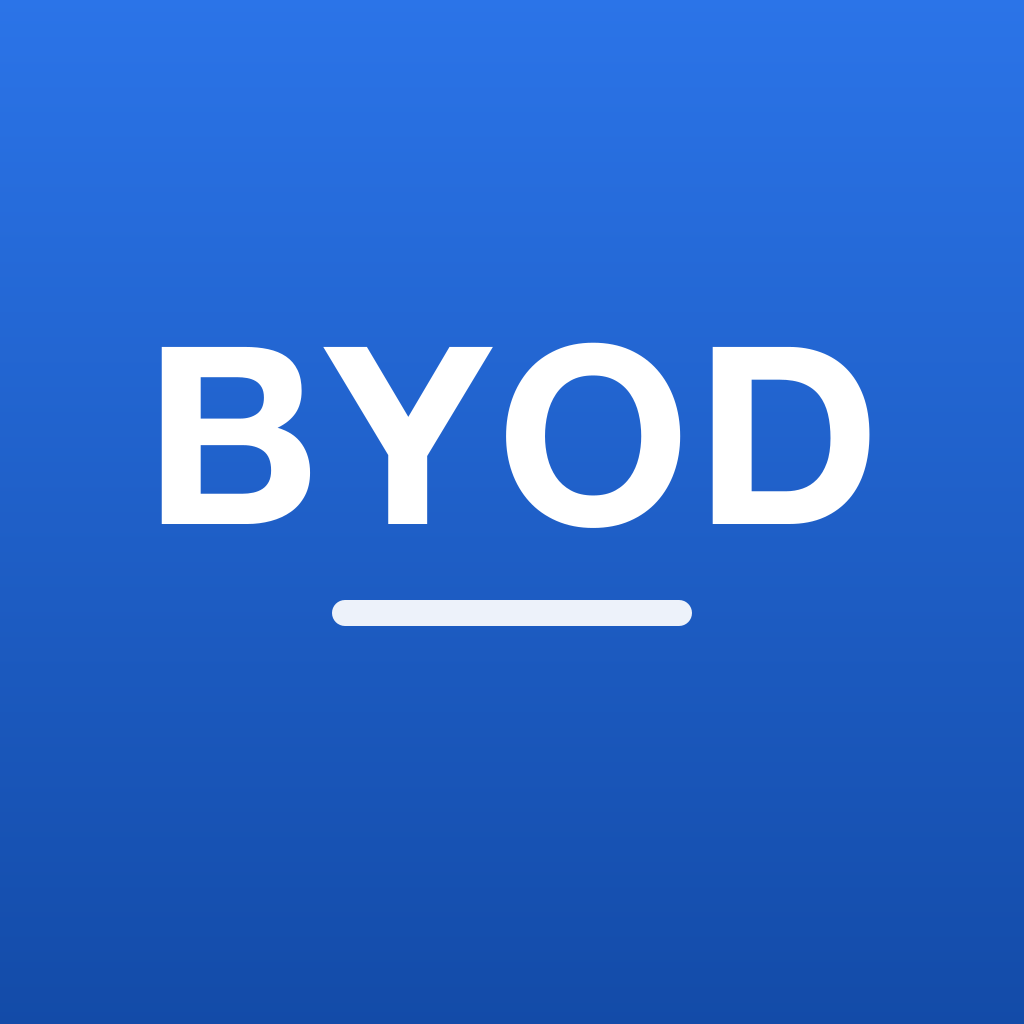
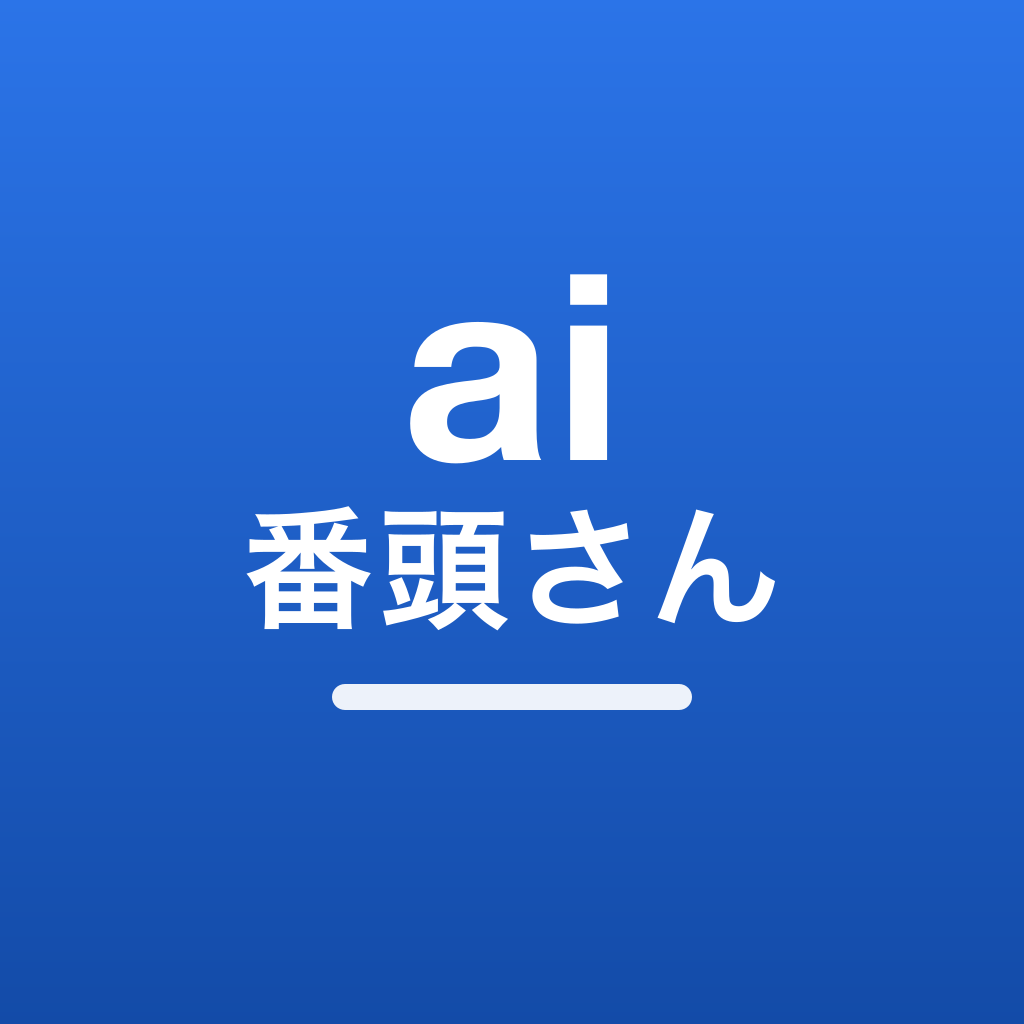
アプリ名を ai番頭さん に統一

Changed region(s): [[0.1562, 0.25, 0.875, 0.625], [0.3125, 0.6562, 0.6875, 0.7188]]

diff --git a/docs/jp/sumpo/BYOD/byod.html b/docs/jp/sumpo/BYOD/byod.html
@@ -3,16 +3,16 @@
 <head>
   <meta charset="UTF-8">
   <meta name="viewport" content="width=device-width, initial-scale=1.0">
-  <title>BYOD　取扱説明</title>
-  <meta name="description" content="設備工事・保守会社向けBYODサンプルの取扱説明です。今日、営業、現場、集金、れんらく、やること、出退勤、管理機能の使い方を案内します。">
+  <title>ai番頭さん　取扱説明</title>
+  <meta name="description" content="設備工事・保守会社向けai番頭さんサンプルの取扱説明です。今日、営業、現場、集金、れんらく、やること、出退勤、管理機能の使い方を案内します。">
   <link rel="canonical" href="https://azukid.com/jp/sumpo/BYOD/byod.html">
   <link rel="alternate" href="https://azukid.com/jp/sumpo/BYOD/byod.html" hreflang="ja">
   <link rel="alternate" href="https://azukid.com/en/sumpo/BYOD/byod.html" hreflang="en">
   <meta name="theme-color" content="#f5f5f7">
   <meta property="og:type" content="article">
   <meta property="og:locale" content="ja_JP">
-  <meta property="og:title" content="BYOD 取扱説明">
-  <meta property="og:description" content="必要十分な業務情報を担当者へ確実に届けるBYODサンプルの操作ガイドです。">
+  <meta property="og:title" content="ai番頭さん 取扱説明">
+  <meta property="og:description" content="必要十分な業務情報を担当者へ確実に届けるai番頭さんサンプルの操作ガイドです。">
   <meta property="og:url" content="https://azukid.com/jp/sumpo/BYOD/byod.html">
   <link rel="stylesheet" href="../../../style.css?v=20260804">
   <script>(function(){var t=localStorage.getItem('theme');if(t)document.documentElement.setAttribute('data-theme',t);})();</script>
@@ -34,7 +34,7 @@
   <div class="site-header-inner">
     <a class="header-back" href="../../index.html">ホーム</a>
     <span class="header-sep">/</span>
-    <span class="site-logo">BYOD</span>
+    <span class="site-logo">ai番頭さん</span>
     <button class="theme-toggle" onclick="toggleTheme()" aria-label="ダークモードを切り替える"></button>
   </div>
 </header>
@@ -43,25 +43,27 @@
 
   <div class="page-header">
     <div class="page-header-text">
-      <h1>BYOD　取扱説明</h1>
-      <p class="page-tagline"><strong>中小企業のガバナンスをBYODで支援する</strong><br>必要な情報だけを、必要な人へ確実に届ける</p>
+      <h1>ai番頭さん　取扱説明</h1>
+      <p class="page-tagline"><strong>中小法人／個人事業の業務DXとガバナンスを、ai番頭さんに</strong><br>必要な情報だけを、必要な人へ確実に届ける</p>
     </div>
   </div>
 
   <!-- サンプルの全体像 -->
   <section class="guide-hero single-column">
     <div class="guide-hero-copy">
-      <p>複数の現場事例から抜粋した基本機能を備えたBYOD基本アプリです。堅牢なセキュリティとガバナンスを支える仕組みをご確認いただけます</p>
+      <p>複数の現場事例から抜粋した基本機能を備えた、BYOD方式の業務アプリ「ai番頭さん」です。堅牢なセキュリティとガバナンスを支える仕組みをご確認いただけます</p>
       <p>本システムの仕様・設計・運用ノウハウをAIに学習させているため、短期間で貴社に最適化したカスタマイズをご提供可能です</p>
       <div class="guide-kpis">
         <div class="guide-kpi"><strong>担当中心</strong><span>自分に必要な情報を優先</span></div>
         <div class="guide-kpi"><strong>現場単位</strong><span>社員と協力会社の範囲を分離</span></div>
         <div class="guide-kpi"><strong>容易に変更</strong><span>変更の前後が記録されていつでも見える</span></div>
+        <!-- BYODの導入メリットを特長として明示 -->
+        <div class="guide-kpi"><strong>BYOD</strong><span>私物スマホに業務データを残さない</span></div>
         <div class="guide-kpi"><strong>セキュリティ</strong><span>パスキー認証、データ分離API集約、多層防御</span></div>
         <div class="guide-kpi"><strong>ガバナンス</strong><span>権限、変更履歴、操作ログ</span></div>
         <div class="guide-kpi"><strong>AI対応</strong><span>意思決定や管理を補助さらに自動化</span></div>
       </div>
-      <p><a class="byod-live-link" href="https://byod.sumpo.uk/">BYODサンプルを開く</a></p>
+      <p><a class="byod-live-link" href="https://byod.sumpo.uk/">ai番頭さんのサンプルを開く</a></p>
     </div>
   </section>
 
@@ -208,7 +210,7 @@
       <a class="link-item" href="slide/byod_summary.pdf"><span class="link-item-label">サマリー — 技術と制度の両輪</span><span class="link-item-arrow">›</span></a>
       <a class="link-item" href="slide/byod_proposal.pdf"><span class="link-item-label">技術編 — Webアプリ優先で解く</span><span class="link-item-arrow">›</span></a>
       <a class="link-item" href="slide/byod_seido_taigu.pdf"><span class="link-item-label">制度・待遇編 — 3つの不安をなくす</span><span class="link-item-arrow">›</span></a>
-      <a class="link-item" href="design.html"><span class="link-item-label">BYOD 設計書</span><span class="link-item-arrow">›</span></a>
+      <a class="link-item" href="design.html"><span class="link-item-label">ai番頭さん 設計書</span><span class="link-item-arrow">›</span></a>
     </div>
   </section>
 

diff --git a/docs/en/sumpo/BYOD/byod.html b/docs/en/sumpo/BYOD/byod.html
@@ -3,16 +3,16 @@
 <head>
   <meta charset="UTF-8">
   <meta name="viewport" content="width=device-width, initial-scale=1.0">
-  <title>BYOD User Guide</title>
-  <meta name="description" content="User guide for the BYOD sample for field service companies, covering Today, sales, job sites, collections, communication, to-dos, attendance, and administration.">
+  <title>ai番頭さん User Guide</title>
+  <meta name="description" content="User guide for the ai番頭さん sample for field service companies, covering Today, sales, job sites, collections, communication, to-dos, attendance, and administration.">
   <link rel="canonical" href="https://azukid.com/en/sumpo/BYOD/byod.html">
   <link rel="alternate" href="https://azukid.com/jp/sumpo/BYOD/byod.html" hreflang="ja">
   <link rel="alternate" href="https://azukid.com/en/sumpo/BYOD/byod.html" hreflang="en">
   <meta name="theme-color" content="#f5f5f7">
   <meta property="og:type" content="article">
   <meta property="og:locale" content="en_US">
-  <meta property="og:title" content="BYOD User Guide">
-  <meta property="og:description" content="A guide to the BYOD sample that reliably delivers only the work information each person needs.">
+  <meta property="og:title" content="ai番頭さん User Guide">
+  <meta property="og:description" content="A guide to the ai番頭さん sample that reliably delivers only the work information each person needs.">
   <meta property="og:url" content="https://azukid.com/en/sumpo/BYOD/byod.html">
   <link rel="stylesheet" href="../../../style.css?v=20260804">
   <script>(function(){var t=localStorage.getItem('theme');if(t)document.documentElement.setAttribute('data-theme',t);})();</script>
@@ -34,7 +34,7 @@
   <div class="site-header-inner">
     <a class="header-back" href="../../index.html">Home</a>
     <span class="header-sep">/</span>
-    <span class="site-logo">BYOD</span>
+    <span class="site-logo">ai番頭さん</span>
     <button class="theme-toggle" onclick="toggleTheme()" aria-label="Toggle dark mode"></button>
   </div>
 </header>
@@ -43,25 +43,27 @@
 
   <div class="page-header">
     <div class="page-header-text">
-      <h1>BYOD User Guide</h1>
-      <p class="page-tagline"><strong>Supporting governance at small and midsize companies through BYOD</strong><br>Deliver only the information each person needs</p>
+      <h1>ai番頭さん User Guide</h1>
+      <p class="page-tagline"><strong>Operations DX and governance for small businesses, brought together in ai番頭さん</strong><br>Deliver only the information each person needs</p>
     </div>
   </div>
 
   <!-- サンプルの全体像 -->
   <section class="guide-hero single-column">
     <div class="guide-hero-copy">
-      <p>A baseline BYOD application whose core features are distilled from cases at multiple job sites. See for yourself how robust security and support for governance are built in</p>
+      <p>ai番頭さん is a baseline business application built around BYOD, with core features distilled from cases at multiple job sites. See for yourself how robust security and support for governance are built in</p>
       <p>Because AI has been trained on this system's specification, design, and operational know-how, we can deliver customization tailored to your company in a short time</p>
       <div class="guide-kpis">
         <div class="guide-kpi"><strong>Assignment First</strong><span>Prioritize information relevant to you</span></div>
         <div class="guide-kpi"><strong>Site Scoped</strong><span>Separate employee and contractor access</span></div>
         <div class="guide-kpi"><strong>Easy to Change</strong><span>Before and after each change is recorded and always visible</span></div>
+        <!-- BYODの導入メリットを特長として明示 -->
+        <div class="guide-kpi"><strong>BYOD</strong><span>Leave no business data on personal phones</span></div>
         <div class="guide-kpi"><strong>Security</strong><span>Passkey authentication, data isolation via a single API, defense in depth</span></div>
         <div class="guide-kpi"><strong>Governance</strong><span>Permissions, change history, audit logs</span></div>
         <div class="guide-kpi"><strong>AI Ready</strong><span>Assists decisions and management, then automates</span></div>
       </div>
-      <p><a class="byod-live-link" href="https://byod.sumpo.uk/">Open the BYOD sample</a></p>
+      <p><a class="byod-live-link" href="https://byod.sumpo.uk/">Open the ai番頭さん sample</a></p>
     </div>
   </section>
 
@@ -209,7 +211,7 @@
       <a class="link-item" href="../../../jp/sumpo/BYOD/slide/byod_summary.pdf"><span class="link-item-label">Summary — Technology and workplace policy</span><span class="link-item-arrow">›</span></a>
       <a class="link-item" href="../../../jp/sumpo/BYOD/slide/byod_proposal.pdf"><span class="link-item-label">Technology — A web-app-first approach</span><span class="link-item-arrow">›</span></a>
       <a class="link-item" href="../../../jp/sumpo/BYOD/slide/byod_seido_taigu.pdf"><span class="link-item-label">Policy and treatment — Remove three concerns</span><span class="link-item-arrow">›</span></a>
-      <a class="link-item" href="../../../jp/sumpo/BYOD/design.html"><span class="link-item-label">BYOD design document</span><span class="link-item-arrow">›</span></a>
+      <a class="link-item" href="../../../jp/sumpo/BYOD/design.html"><span class="link-item-label">ai番頭さん design document</span><span class="link-item-arrow">›</span></a>
     </div>
   </section>
 

diff --git a/docs/jp/index.html b/docs/jp/index.html
@@ -163,9 +163,9 @@
         </div>
       </div>
       <div class="app-card">
-        <a class="app-card-link-overlay" href="sumpo/BYOD/byod.html" aria-label="BYODの取扱説明を開く"></a>
+        <a class="app-card-link-overlay" href="sumpo/BYOD/byod.html" aria-label="ai番頭さんの取扱説明を開く"></a>
         <div class="app-card-top">
-          <img class="app-card-icon" src="../images/icon-byod.png" alt="BYOD">
+          <img class="app-card-icon" src="../images/icon-byod.png?v=20260825" alt="ai番頭さん">
           <div class="app-card-versions">
             <span class="app-card-version app-card-version-live">1.0.0 公開中</span>
             <!-- 審査中バージョン -->
@@ -174,8 +174,8 @@
             <!-- <span class="app-card-version app-card-version-working">x.x.x 作業中</span> -->
           </div>
         </div>
-        <span class="app-card-name">BYOD</span>
-        <span class="app-card-sub">中小企業のガバナンスを支援</span>
+        <span class="app-card-name">ai番頭さん</span>
+        <span class="app-card-sub">中小法人／個人事業の業務DXとガバナンスを、ai番頭さんに</span>
         <div class="app-card-footer">
           <a class="app-card-btn app-card-btn-doc" href="sumpo/BYOD/byod.html">取扱説明</a>
         </div>

diff --git a/docs/en/index.html b/docs/en/index.html
@@ -163,9 +163,9 @@
         </div>
       </div>
       <div class="app-card">
-        <a class="app-card-link-overlay" href="sumpo/BYOD/byod.html" aria-label="Open the BYOD user guide"></a>
+        <a class="app-card-link-overlay" href="sumpo/BYOD/byod.html" aria-label="Open the user guide for ai番頭さん"></a>
         <div class="app-card-top">
-          <img class="app-card-icon" src="../images/icon-byod.png" alt="BYOD">
+          <img class="app-card-icon" src="../images/icon-byod.png?v=20260825" alt="ai番頭さん">
           <div class="app-card-versions">
             <span class="app-card-version app-card-version-live">1.0.0 Live</span>
             <!-- 審査中バージョン -->
@@ -174,8 +174,8 @@
             <!-- <span class="app-card-version app-card-version-working">x.x.x Working</span> -->
           </div>
         </div>
-        <span class="app-card-name">BYOD</span>
-        <span class="app-card-sub">Supporting governance at smaller companies</span>
+        <span class="app-card-name">ai番頭さん</span>
+        <span class="app-card-sub">Operations DX and governance for small businesses, brought together in ai番頭さん</span>
         <div class="app-card-footer">
           <a class="app-card-btn app-card-btn-doc" href="sumpo/BYOD/byod.html">User Guide</a>
         </div>

diff --git a/docs/jp/sumpo/BYOD/DESIGN.md b/docs/jp/sumpo/BYOD/DESIGN.md
@@ -1,4 +1,4 @@
-# BYOD サンプルプロジェクト 設計書
+# ai番頭さん サンプルプロジェクト 設計書
 
 > 目的: BYOD（私物スマホの業務利用）を中小企業経営者に提案するための、動くデモンストレーション。
 > 「安く・簡単に維持でき・それでいて堅い」を実物で示すことがゴール。
